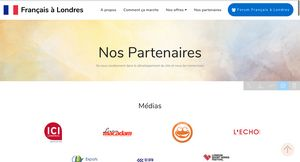
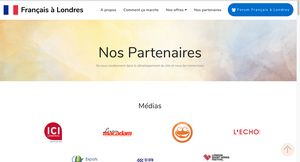
add voila festival

Changed region(s): [[0.81, 0.0, 1.0, 0.5864]]

diff --git a/nos-partenaires.html b/nos-partenaires.html
@@ -1386,7 +1386,7 @@ body{font-family: Roboto;}blockquote{border-color: #f9d5bd;}.display-1{font-fami
             Théâtre</h2>
         
         <div class="mbr-row mbr-justify-content-center">
-            <div class="item-card mbr-col-sm-12 mbr-col-md-6 mbr-col-lg-4 last-child">
+            <div class="item-card mbr-col-sm-12 mbr-col-md-6 mbr-col-lg-4">
                 <div class="client-wrapper">
                     <div class="wrap-img">
                         <amp-img src="assets/images/art-fabric-logo-350x263.png" layout="responsive" width="175.66539923954375" height="132" alt="artfabricandco.com" class="mobirise-loader">
@@ -1407,7 +1407,26 @@ body{font-family: Roboto;}blockquote{border-color: #f9d5bd;}.display-1{font-fami
                 </div>
             </div>
 
-            
+            <div class="item-card mbr-col-sm-12 mbr-col-md-6 mbr-col-lg-4 last-child">
+                <div class="client-wrapper">
+                    <div class="wrap-img">
+                        <amp-img src="assets/images/voila-festival-1-350x263.png" layout="responsive" width="175.66539923954375" height="132" alt="Voila Festival" class="mobirise-loader">
+                            <div placeholder="">
+                                <div class="mobirise-spinner">
+                                    <em></em>
+                                    <em></em>
+                                    <em></em>
+                                </div>
+                            </div>
+                            <a href="https://www.voilafestival.co.uk/sales"></a>
+                        </amp-img>
+                    </div>
+                    <div class="card-box">
+                        
+                          
+                    </div> 
+                </div>
+            </div>
 
             
 
